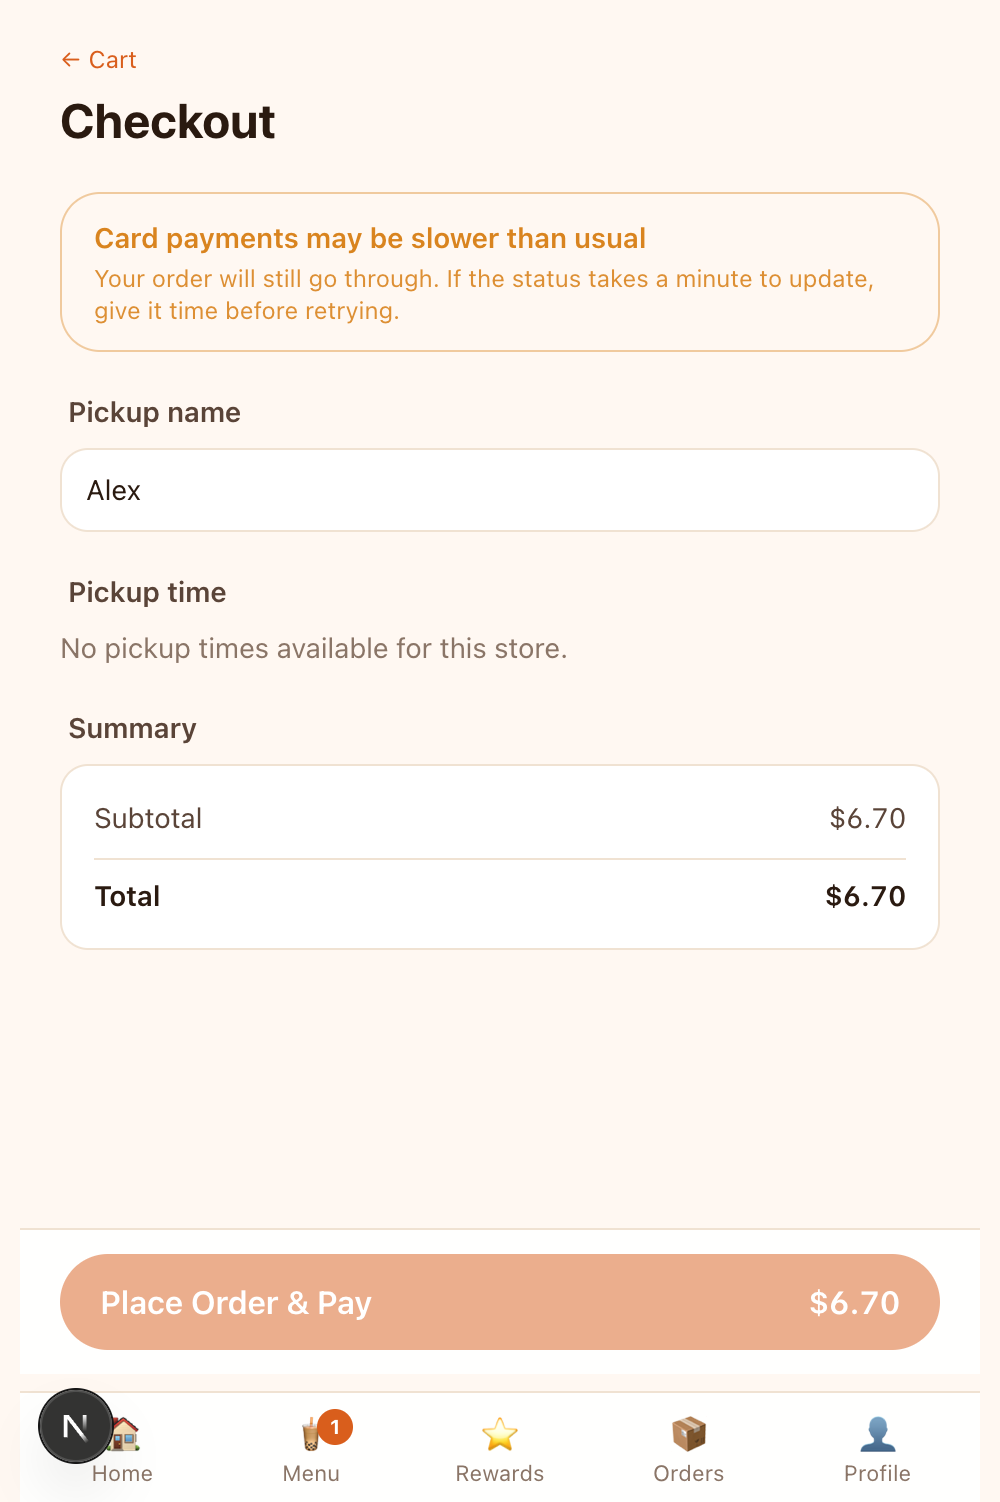
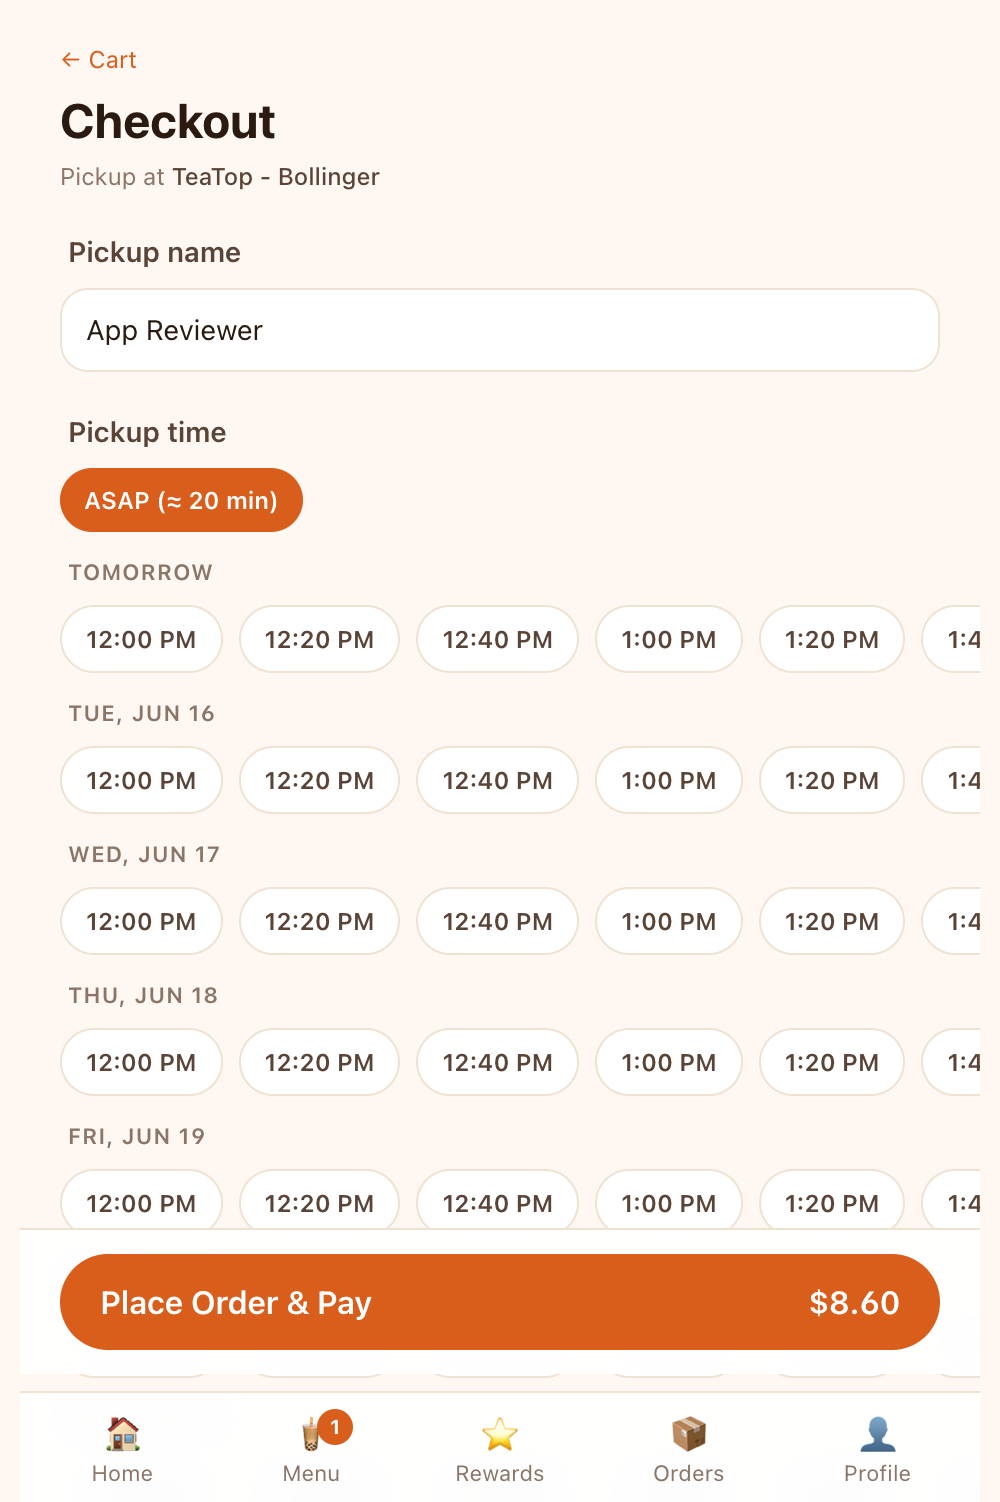
Add "On the web" gallery section to BobaHub case study
Re-capture the BobaHub web-app screens with a store selected so they show
the real per-store drink photos (Home, Menu, Customize, Checkout) and group
them under an "On the web" sub-header alongside the iPhone screens. The
earlier web shots looked generic only because they were captured with no
store pinned — the web app shows the same photos as native once a store is
selected. Drop the unused store-less web shots (cart/profile/rewards).

diff --git a/website/src/data/projects.ts b/website/src/data/projects.ts
@@ -48,6 +48,10 @@ export const projects: Project[] = [
       { src: '/screenshots/bobahub-ios-orders.png', alt: 'BobaHub iOS app order history with reorder', label: 'Orders', mode: 'portrait', section: 'iPhone app' },
       { src: '/screenshots/bobahub-ios-rewards.png', alt: 'BobaHub iOS app loyalty rewards progress', label: 'Rewards', mode: 'portrait', section: 'iPhone app' },
       { src: '/screenshots/bobahub-ios-profile.png', alt: 'BobaHub iOS app account profile', label: 'Profile', mode: 'portrait', section: 'iPhone app' },
+      { src: '/screenshots/bobahub-web-home.png', alt: 'BobaHub web app home with featured drink', label: 'Home', mode: 'portrait', section: 'On the web' },
+      { src: '/screenshots/bobahub-web-menu.png', alt: 'BobaHub web app menu with real drink photos and prices', label: 'Menu', mode: 'portrait', section: 'On the web' },
+      { src: '/screenshots/bobahub-web-detail.png', alt: 'BobaHub web app drink customization — ice, sugar, and toppings', label: 'Customize', mode: 'portrait', section: 'On the web' },
+      { src: '/screenshots/bobahub-web-checkout.png', alt: 'BobaHub web app checkout with pickup time and payment', label: 'Checkout', mode: 'portrait', section: 'On the web' },
     ],
     platform: 'iOS · iPad · Web · Payments',
   },
